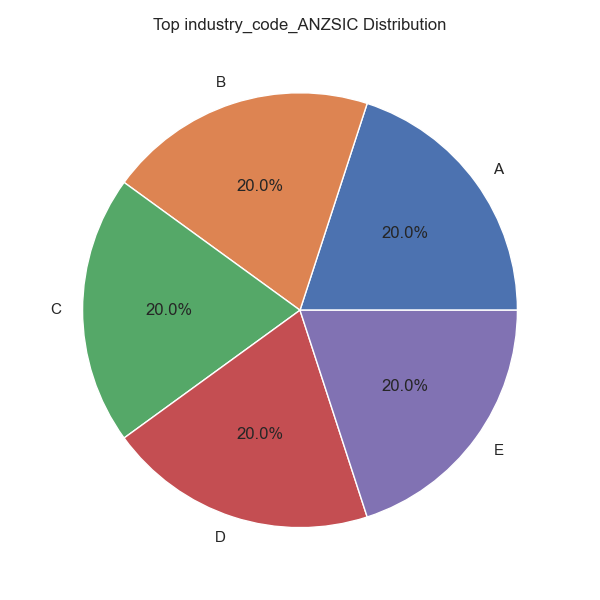
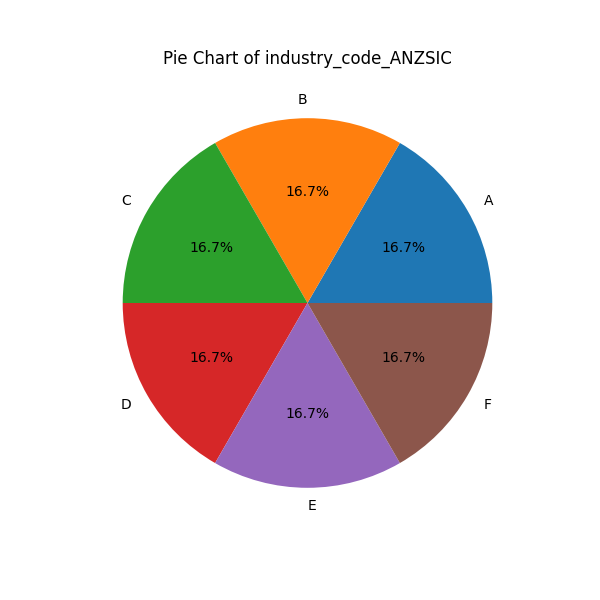
Fix: Added axis labels and improved chart descriptions

diff --git a/visualizer.py b/visualizer.py
@@ -9,70 +9,92 @@ def generate_charts(df, output_folder='outputs'):
     numeric_cols = df.select_dtypes(include='number').columns.tolist()
     categorical_cols = df.select_dtypes(exclude='number').columns.tolist()
 
-    # Histogram + line for each numeric column
+    # Histogram + Line for each numeric column
     for col in numeric_cols:
+        # Histogram
         plt.figure(figsize=(6, 4))
         sns.histplot(df[col], kde=True, color='skyblue')
-        title = f"Distribution of {col}"
+        plt.title(f"Distribution of {col}")
+        plt.xlabel(col)
+        plt.ylabel("Frequency")
         filename = f"{col}_hist.png"
-        path = os.path.join(output_folder, filename)
-        plt.title(title)
-        plt.savefig(path)
+        plt.tight_layout()
+        plt.savefig(os.path.join(output_folder, filename))
         plt.close()
-        chart_info.append({"title": title, "filename": filename, "desc": f"Histogram of {col}."})
+        chart_info.append({
+            "title": f"Distribution of {col}",
+            "filename": filename,
+            "desc": f"Histogram showing distribution of '{col}'."
+        })
 
+        # Line Chart (Trend)
         plt.figure(figsize=(6, 4))
         sns.lineplot(x=df.index, y=df[col], marker="o", color="orange")
-        title = f"Trend of {col} over rows"
+        plt.title(f"Trend of {col} over rows")
+        plt.xlabel("Row Index")
+        plt.ylabel(col)
         filename = f"{col}_line.png"
-        path = os.path.join(output_folder, filename)
-        plt.title(title)
-        plt.savefig(path)
+        plt.tight_layout()
+        plt.savefig(os.path.join(output_folder, filename))
         plt.close()
-        chart_info.append({"title": title, "filename": filename, "desc": f"Trend line of {col}."})
+        chart_info.append({
+            "title": f"Trend of {col}",
+            "filename": filename,
+            "desc": f"Line chart showing how '{col}' changes over rows."
+        })
 
-    # Pie + bar chart for categorical column (first one)
+    # Pie + Bar for first categorical column
     if categorical_cols:
         col = categorical_cols[0]
         value_counts = df[col].value_counts().head(6)
 
-        # Pie chart
+        # Pie Chart
         plt.figure(figsize=(6, 6))
         value_counts.plot.pie(autopct='%1.1f%%')
-        title = f"Pie Chart of {col}"
+        plt.title(f"Pie Chart of {col}")
+        plt.ylabel("")  # Hide Y label for pie
         filename = f"{col}_pie.png"
-        path = os.path.join(output_folder, filename)
-        plt.title(title)
-        plt.ylabel("")
-        plt.savefig(path)
-        plt.close()
-        chart_info.append({"title": title, "filename": filename, "desc": f"Top categories in {col}."})
-
-        # Bar chart
-        plt.figure(figsize=(6, 4))
-        sns.barplot(x=value_counts.index, y=value_counts.values, palette='pastel')
-        title = f"Bar Chart of {col}"
-        filename = f"{col}_bar.png"
-        path = os.path.join(output_folder, filename)
-        plt.title(title)
-        plt.savefig(path)
-        plt.close()
-        chart_info.append({"title": title, "filename": filename, "desc": f"Bar chart of {col} frequency."})
-
-    # Scatter plot if 2+ numeric columns
-    if len(numeric_cols) >= 2:
-        plt.figure(figsize=(6, 4))
-        sns.scatterplot(x=df[numeric_cols[0]], y=df[numeric_cols[1]], color='green')
-        title = f"Scatter: {numeric_cols[0]} vs {numeric_cols[1]}"
-        filename = f"scatter_{numeric_cols[0]}_{numeric_cols[1]}.png"
-        path = os.path.join(output_folder, filename)
-        plt.title(title)
-        plt.savefig(path)
+        plt.tight_layout()
+        plt.savefig(os.path.join(output_folder, filename))
         plt.close()
         chart_info.append({
-            "title": title,
+            "title": f"Pie Chart of {col}",
             "filename": filename,
-            "desc": f"Scatter plot of {numeric_cols[0]} vs {numeric_cols[1]}"
+            "desc": f"Pie chart showing top 6 values in '{col}'."
+        })
+
+        # Bar Chart
+        plt.figure(figsize=(6, 4))
+        sns.barplot(x=value_counts.index, y=value_counts.values, palette='pastel')
+        plt.title(f"Bar Chart of {col}")
+        plt.xlabel(col)
+        plt.ylabel("Count")
+        filename = f"{col}_bar.png"
+        plt.tight_layout()
+        plt.savefig(os.path.join(output_folder, filename))
+        plt.close()
+        chart_info.append({
+            "title": f"Bar Chart of {col}",
+            "filename": filename,
+            "desc": f"Bar chart showing frequency of top 6 '{col}' values."
+        })
+
+    # Scatter Plot: Use first two numeric columns if available
+    if len(numeric_cols) >= 2:
+        x_col, y_col = numeric_cols[:2]
+        plt.figure(figsize=(6, 4))
+        sns.scatterplot(x=df[x_col], y=df[y_col], color='green')
+        plt.title(f"Scatter: {x_col} vs {y_col}")
+        plt.xlabel(x_col)
+        plt.ylabel(y_col)
+        filename = f"scatter_{x_col}_vs_{y_col}.png"
+        plt.tight_layout()
+        plt.savefig(os.path.join(output_folder, filename))
+        plt.close()
+        chart_info.append({
+            "title": f"Scatter Plot: {x_col} vs {y_col}",
+            "filename": filename,
+            "desc": f"Scatter plot comparing '{x_col}' and '{y_col}'."
         })
 
     return chart_info
